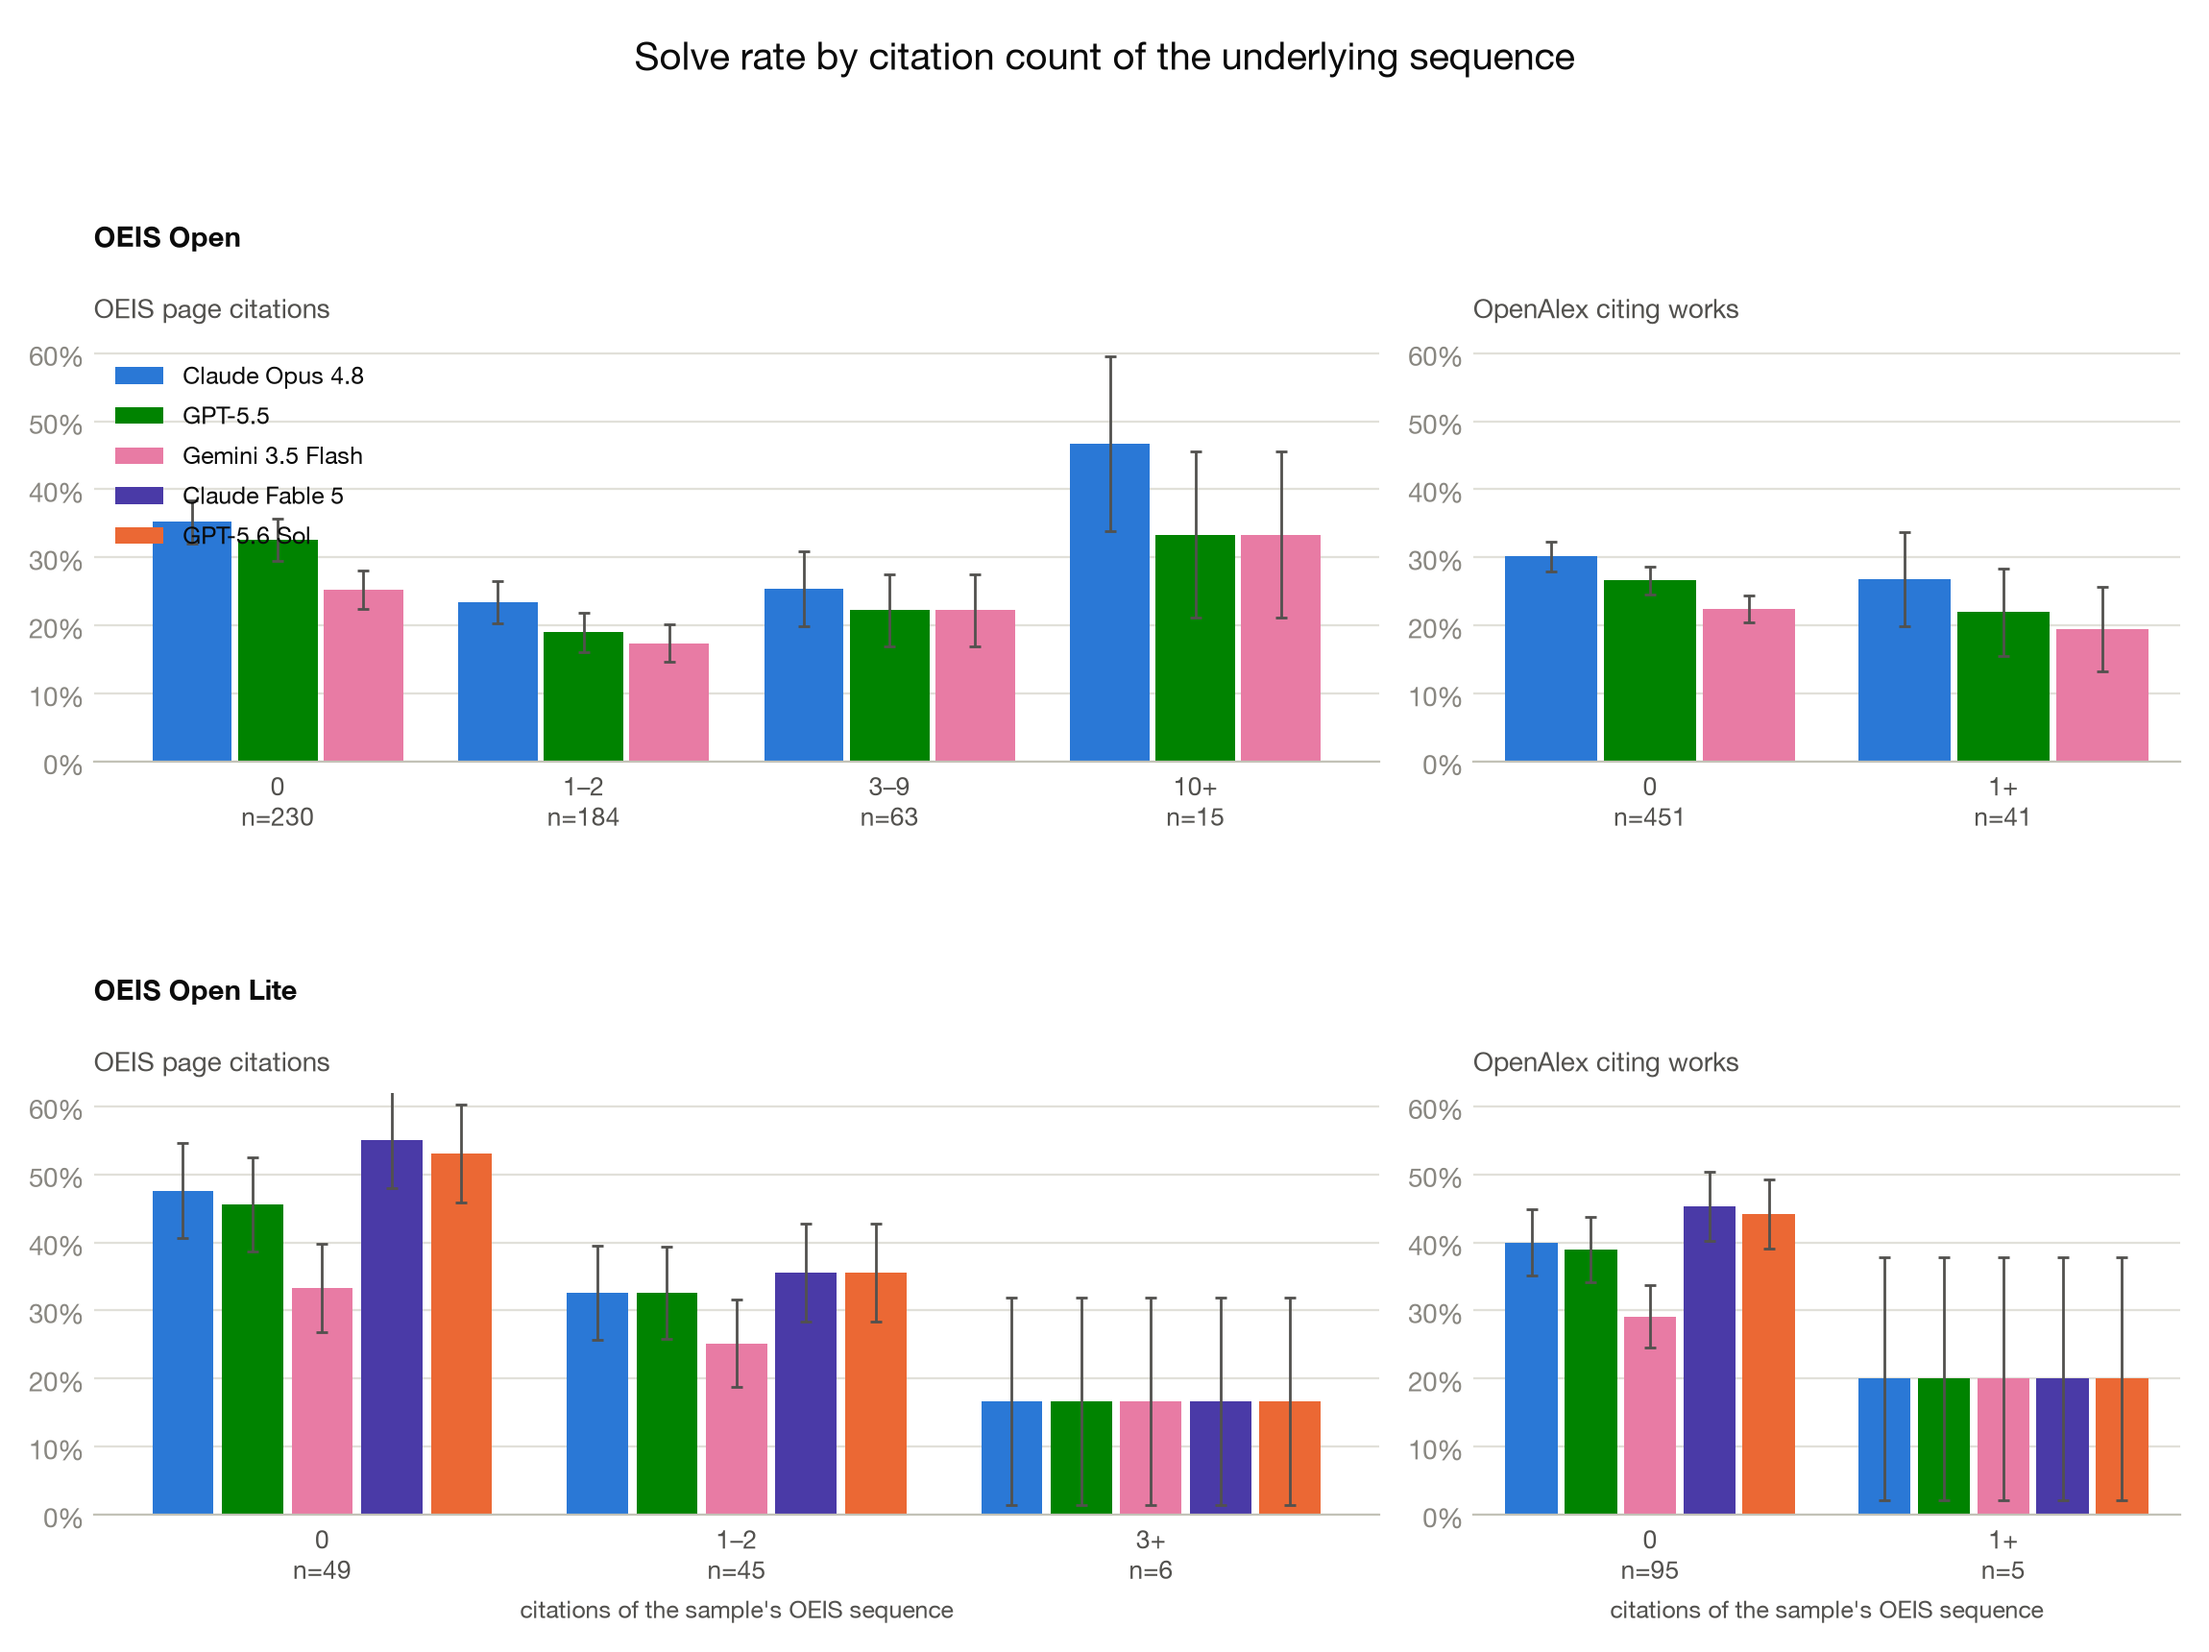
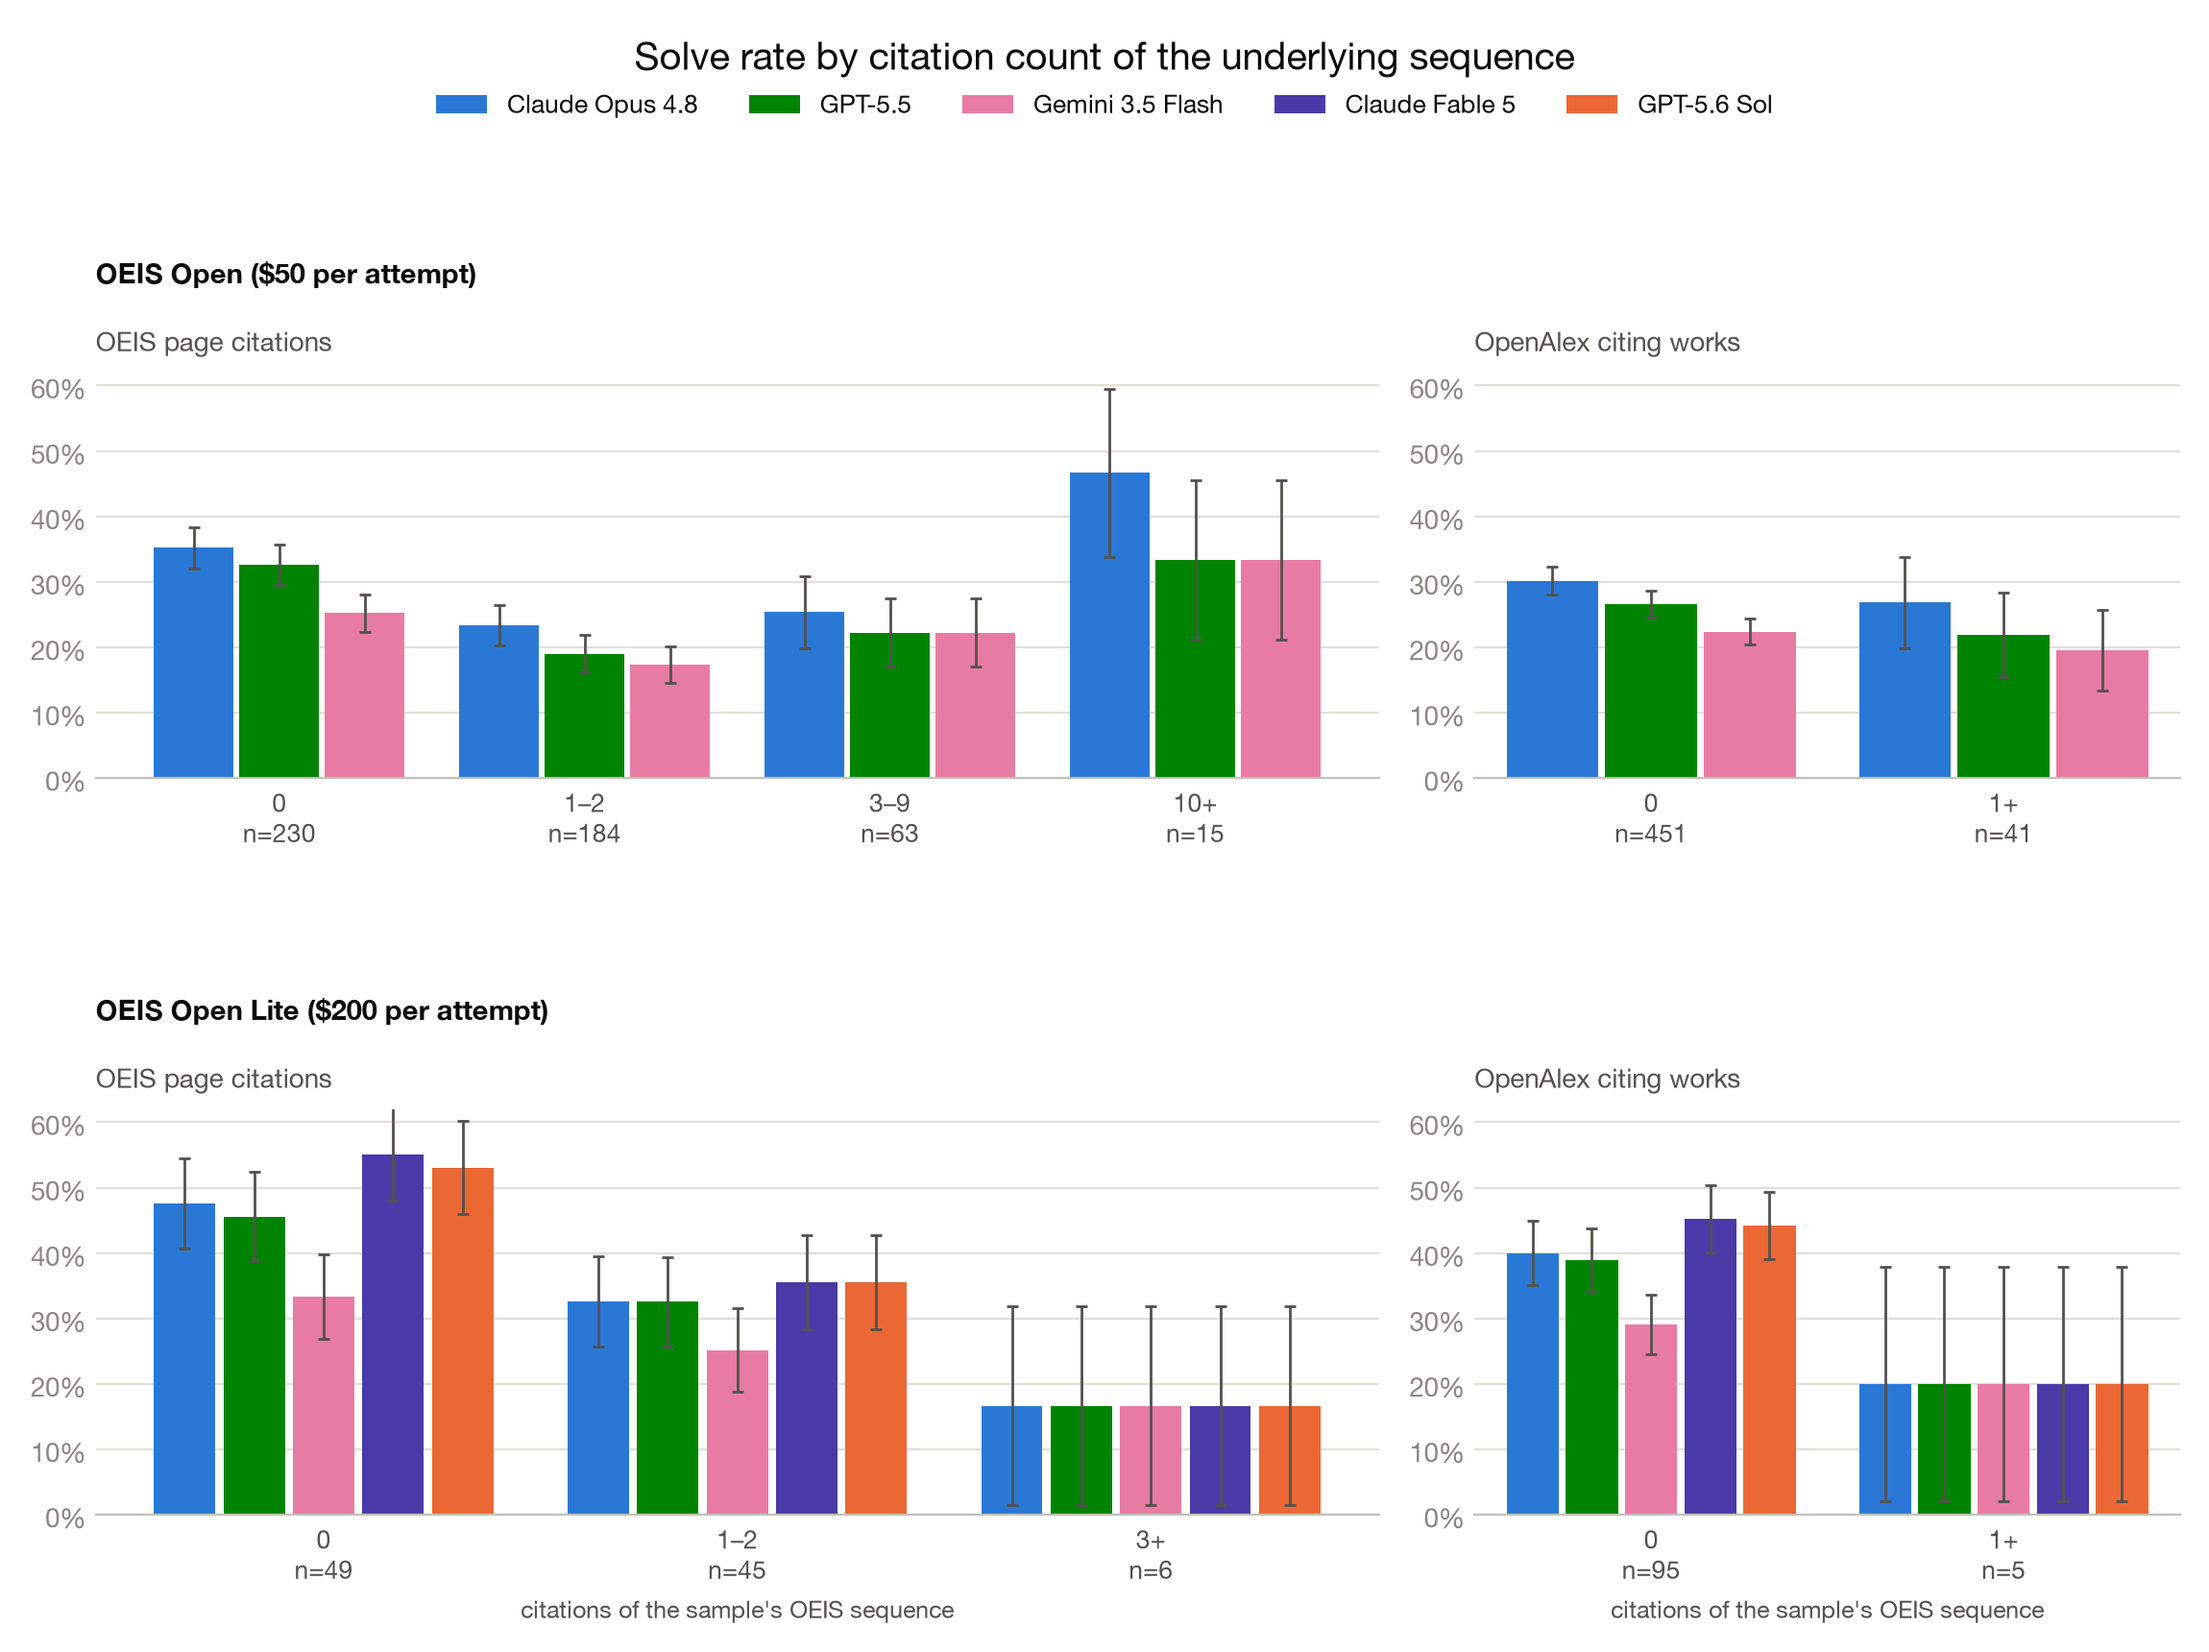
Plots: per-attempt budgets in titles, legends moved clear of bars
Also skip non-oeis-* run dirs under logs/ in make_plots.py; a stray
apn-fc100open run was crashing figure regeneration.

diff --git a/plots/make_plots.py b/plots/make_plots.py
@@ -13,6 +13,7 @@ import matplotlib.pyplot as plt
 from matplotlib import rcParams
 
 from bench_names import (ALPHAPROOF_NEXUS, BENCH_FULL, BENCH_LITE,
+                         BENCH_FULL_BUDGETED, BENCH_LITE_BUDGETED,
                          MODEL_LABELS, PROVIDER_RE, PROVIDERS)
 
 LOGS = Path("logs")
@@ -23,6 +24,10 @@ OUT.mkdir(exist_ok=True)
 runs = {}  # eval_set_name -> (accuracy, stderr, n, frac_proved, frac_disproved)
 for scores_path in LOGS.glob("*/*/scores.json"):
     eval_set = scores_path.parent.parent.name
+    # logs/ may also hold runs of other benchmarks (whose per-sample
+    # scores.json files match this glob); only oeis-* eval sets belong here
+    if not eval_set.startswith("oeis-"):
+        continue
     data = json.loads(scores_path.read_text())
     (scorer,) = data
     m = scorer["metrics"]
@@ -149,7 +154,7 @@ ax1.set_xticks(range(len(lite_provs)))
 ax1.set_xticklabels([MODEL_LABELS[p].replace(" ", "\n", 1) for p in lite_provs],
                     fontsize=8)
 style_axis(ax1, ymax=0.56)
-ax1.set_title(BENCH_LITE, fontsize=9.5, loc="left", color=INK)
+ax1.set_title(BENCH_LITE_BUDGETED, fontsize=9.5, loc="left", color=INK)
 outcome_legend(ax1, [FULL_COLOR], loc="upper left", ncols=2)
 
 # --- panel 2: full, base scaffold ------------------------------------------
@@ -186,7 +191,7 @@ outcome_legend(ax2, [FULL_COLOR], loc="upper center", ncols=2)
 ax2.set_xticks(list(range(len(labels))))
 ax2.set_xticklabels(labels, fontsize=7)
 style_axis(ax2, ymax=0.56)
-ax2.set_title(f"{BENCH_FULL} (full set)", fontsize=9.5, loc="left", color=INK)
+ax2.set_title(BENCH_FULL_BUDGETED, fontsize=9.5, loc="left", color=INK)
 fig.tight_layout(w_pad=1.5)
 fig.savefig(OUT / "accuracy.png", dpi=300)
 print("wrote", OUT / "accuracy.png")

diff --git a/plots/make_citation_plots.py b/plots/make_citation_plots.py
@@ -10,8 +10,8 @@ from pathlib import Path
 import matplotlib.pyplot as plt
 from matplotlib import rcParams
 
-from bench_names import (BENCH_FULL, BENCH_LITE, MODEL_LABELS, PROVIDER_RE,
-                         PROVIDERS, SERIES)
+from bench_names import (BENCH_FULL_BUDGETED, BENCH_LITE_BUDGETED,
+                         MODEL_LABELS, PROVIDER_RE, PROVIDERS, SERIES)
 
 LOGS = Path("logs")
 OUT = Path("plots")
@@ -70,8 +70,8 @@ NATIVE_LITE = [("0", 0, 0), ("1–2", 1, 2), ("3+", 3, 10**9)]
 OPENALEX = [("0", 0, 0), ("1+", 1, 10**9)]
 
 ROWS = [
-    (BENCH_FULL, full_frac, full_oeis, NATIVE_FULL),
-    (BENCH_LITE, lite_frac, lite_oeis, NATIVE_LITE),
+    (BENCH_FULL_BUDGETED, full_frac, full_oeis, NATIVE_FULL),
+    (BENCH_LITE_BUDGETED, lite_frac, lite_oeis, NATIVE_LITE),
 ]
 
 fig, axes = plt.subplots(2, 2, figsize=(11.5, 8.6),
@@ -124,10 +124,11 @@ handles = {}
 for ax in (axes[0][0], axes[1][0]):
     h, l = ax.get_legend_handles_labels()
     handles.update(zip(l, h))
-axes[0][0].legend(handles.values(), handles.keys(), frameon=False, fontsize=9,
-                  loc="upper left")
+# legend in the strip between the suptitle and the first row, clear of bars
+fig.legend(handles.values(), handles.keys(), frameon=False, fontsize=9.5,
+           ncols=len(handles), loc="upper center", bbox_to_anchor=(0.5, 0.96))
 fig.suptitle("Solve rate by citation count of the underlying sequence",
              fontsize="x-large")
-fig.tight_layout(rect=(0, 0, 1, 0.95), h_pad=4)
+fig.tight_layout(rect=(0, 0, 1, 0.93), h_pad=4)
 fig.savefig(OUT / "citations_solve_rate.png", dpi=200)
 print("wrote", OUT / "citations_solve_rate.png")

diff --git a/plots/make_proposed_year_plot.py b/plots/make_proposed_year_plot.py
@@ -12,8 +12,8 @@ from pathlib import Path
 import matplotlib.pyplot as plt
 from matplotlib import rcParams
 
-from bench_names import (BENCH_FULL, BENCH_LITE, MODEL_LABELS, PROVIDER_RE,
-                         PROVIDERS, SERIES)
+from bench_names import (BENCH_FULL_BUDGETED, BENCH_LITE_BUDGETED,
+                         MODEL_LABELS, PROVIDER_RE, PROVIDERS, SERIES)
 
 LOGS = Path("logs")
 OUT = Path("plots")
@@ -65,8 +65,8 @@ BINS = [("≤2006", 0, 2006), ("2007–11", 2007, 2011), ("2012–16", 2012, 201
         ("2017–21", 2017, 2021), ("2022–25", 2022, 2025)]
 
 ROWS = [
-    (BENCH_FULL, full_frac, BINS, 0.62),
-    (BENCH_LITE, lite_frac, BINS, 1.04),
+    (BENCH_FULL_BUDGETED, full_frac, BINS, 0.62),
+    (BENCH_LITE_BUDGETED, lite_frac, BINS, 1.04),
 ]
 
 fig, axes = plt.subplots(2, 1, figsize=(9.2, 8.4))
@@ -113,10 +113,11 @@ handles = {}
 for ax in axes:
     h, l = ax.get_legend_handles_labels()
     handles.update(zip(l, h))
-axes[0].legend(handles.values(), handles.keys(), frameon=False, fontsize=9,
-               loc="upper left")
+# legend in the strip between the suptitle and the first panel, clear of bars
+fig.legend(handles.values(), handles.keys(), frameon=False, fontsize=9.5,
+           ncols=len(handles), loc="upper center", bbox_to_anchor=(0.5, 0.955))
 fig.suptitle("Solve rate by year the conjecture was proposed",
              fontsize="x-large")
-fig.tight_layout(rect=(0, 0, 1, 0.96), h_pad=3)
+fig.tight_layout(rect=(0, 0, 1, 0.93), h_pad=3)
 fig.savefig(OUT / "proposed_year_solve_rate.png", dpi=200)
 print("wrote", OUT / "proposed_year_solve_rate.png")

diff --git a/plots/bench_names.py b/plots/bench_names.py
@@ -9,6 +9,14 @@ BENCH_FULL = BENCH
 BENCH_LITE = f"{BENCH} Lite"
 ALPHAPROOF_NEXUS = "AlphaProof Nexus"
 
+# Per-attempt budget annotations for figure titles. The dollar signs are
+# backslash-escaped so matplotlib renders them literally instead of opening
+# mathtext.
+FULL_BUDGET = r"\$50 per attempt"
+LITE_BUDGET = r"\$200 per attempt"
+BENCH_FULL_BUDGETED = f"{BENCH_FULL} ({FULL_BUDGET})"
+BENCH_LITE_BUDGETED = f"{BENCH_LITE} ({LITE_BUDGET})"
+
 # Providers as tagged in eval-set names (oeis-<kind>-<budget>usd[-<variant>]-<provider>-<id>).
 # Not every provider has every run kind; scripts must skip providers with no data.
 MODEL_LABELS = {
